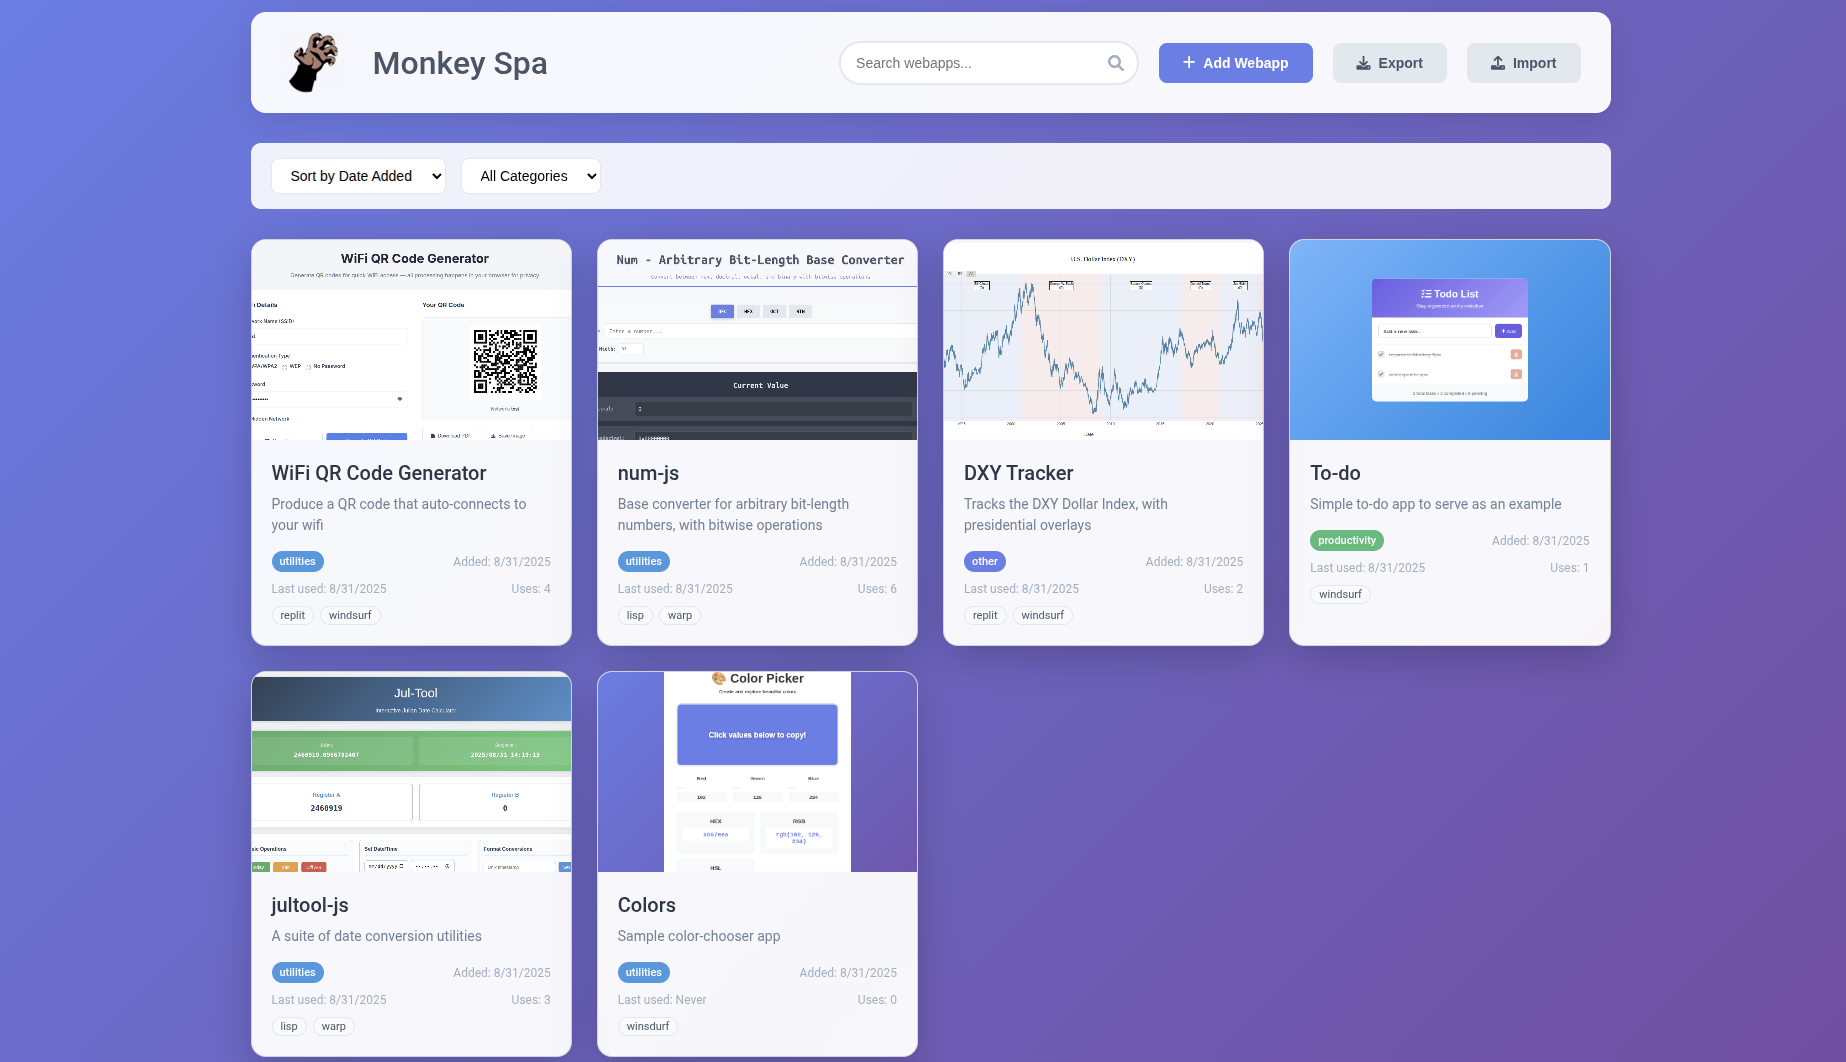
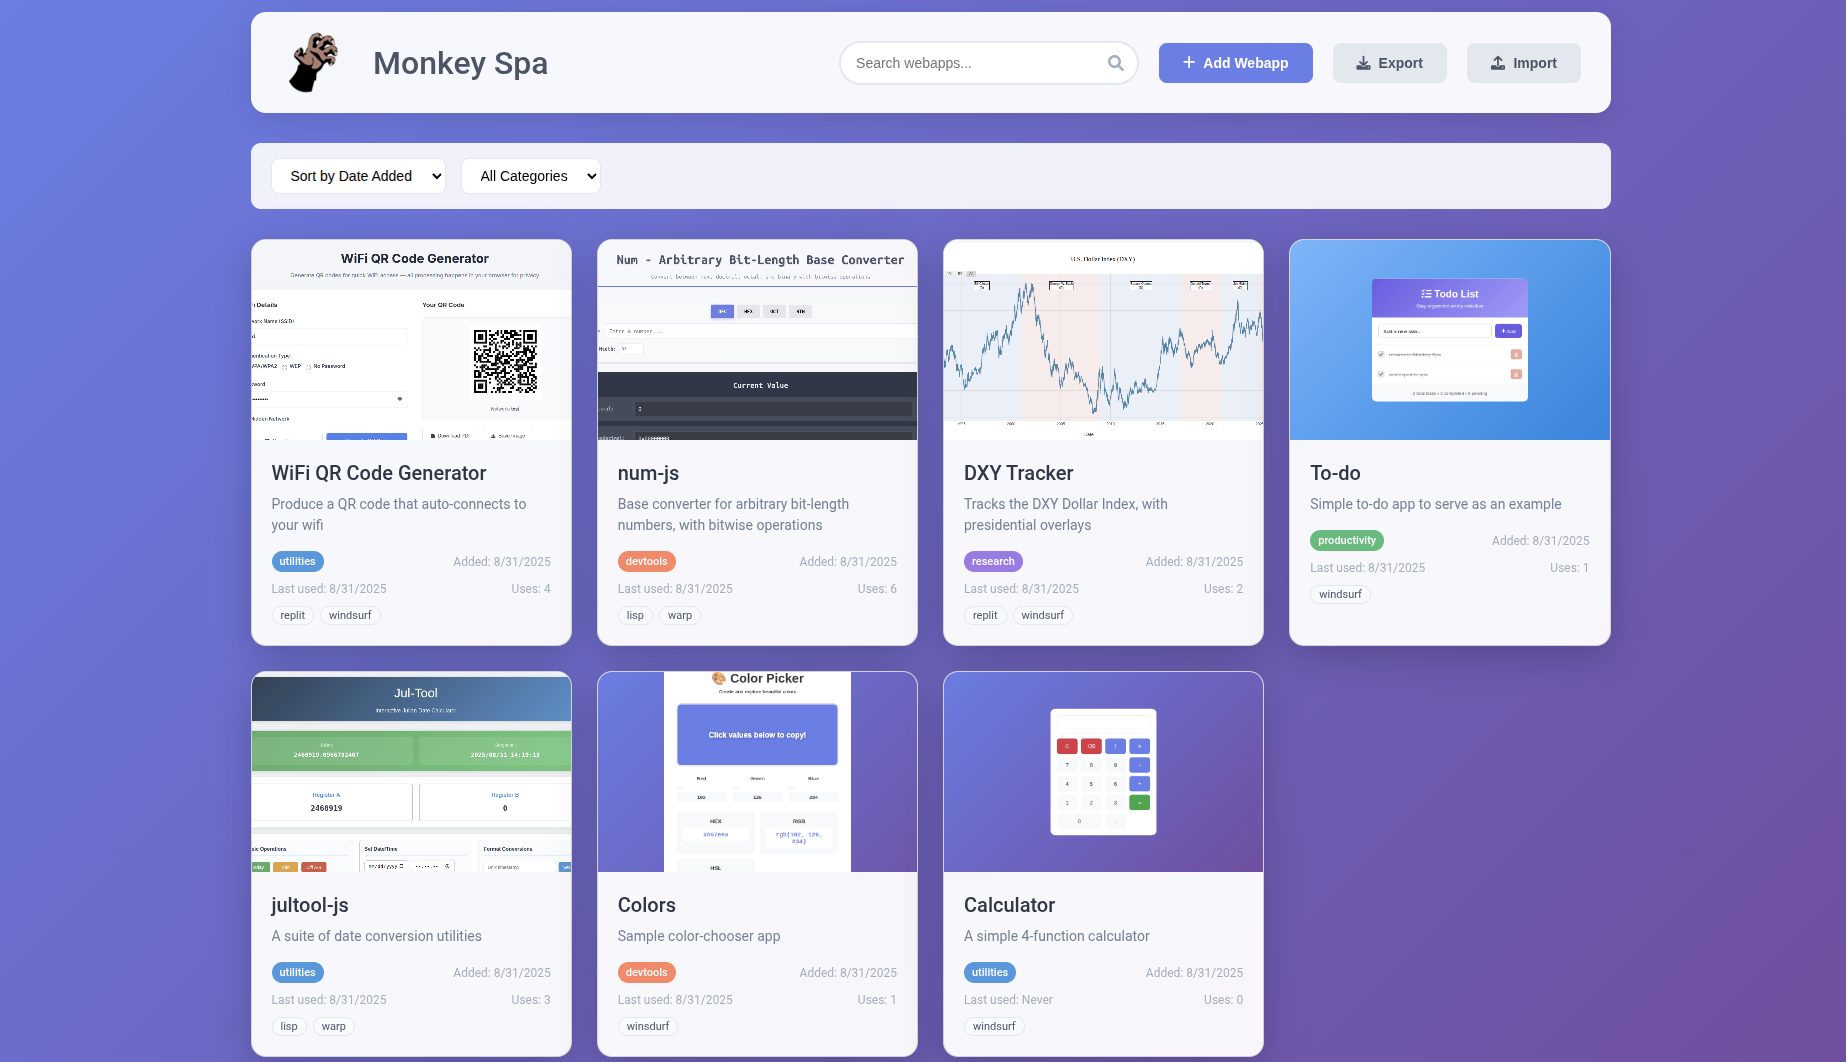
Changed categories, updated screenshot

diff --git a/monkey-spa.html b/monkey-spa.html
@@ -607,10 +607,11 @@ h1 img {
             </select>
             <select id="categoryFilter" class="filter-select">
                 <option value="">All Categories</option>
+		<option value="devtools">Dev Tools</option>
+		<option value="research">Research</option>
                 <option value="productivity">Productivity</option>
-                <option value="games">Games</option>
                 <option value="utilities">Utilities</option>
-                <option value="entertainment">Entertainment</option>
+                <option value="fun">Fun</option>
                 <option value="other">Other</option>
             </select>
         </div>
@@ -651,10 +652,11 @@ h1 img {
                     <label for="appCategory">Category</label>
                     <select id="appCategory">
                         <option value="other">Other</option>
+			<option value="devtools">Dev Tools</option>
+			<option value="research">Research</option>
                         <option value="productivity">Productivity</option>
-                        <option value="games">Games</option>
                         <option value="utilities">Utilities</option>
-                        <option value="entertainment">Entertainment</option>
+                        <option value="fun">Fun</option>
                     </select>
                 </div>
                 <div class="form-group">
@@ -1561,9 +1563,10 @@ class WebappManager {
         const getCategoryColor = (category) => {
             const colors = {
                 productivity: '#48bb78',
-                games: '#ed8936',
+                fun: '#ed8936',
                 utilities: '#4299e1',
-                entertainment: '#9f7aea',
+                research: '#9f7aea',
+                devtools: '#ff8463',
                 other: '#667eea'
             };
             return colors[category] || colors.other;
